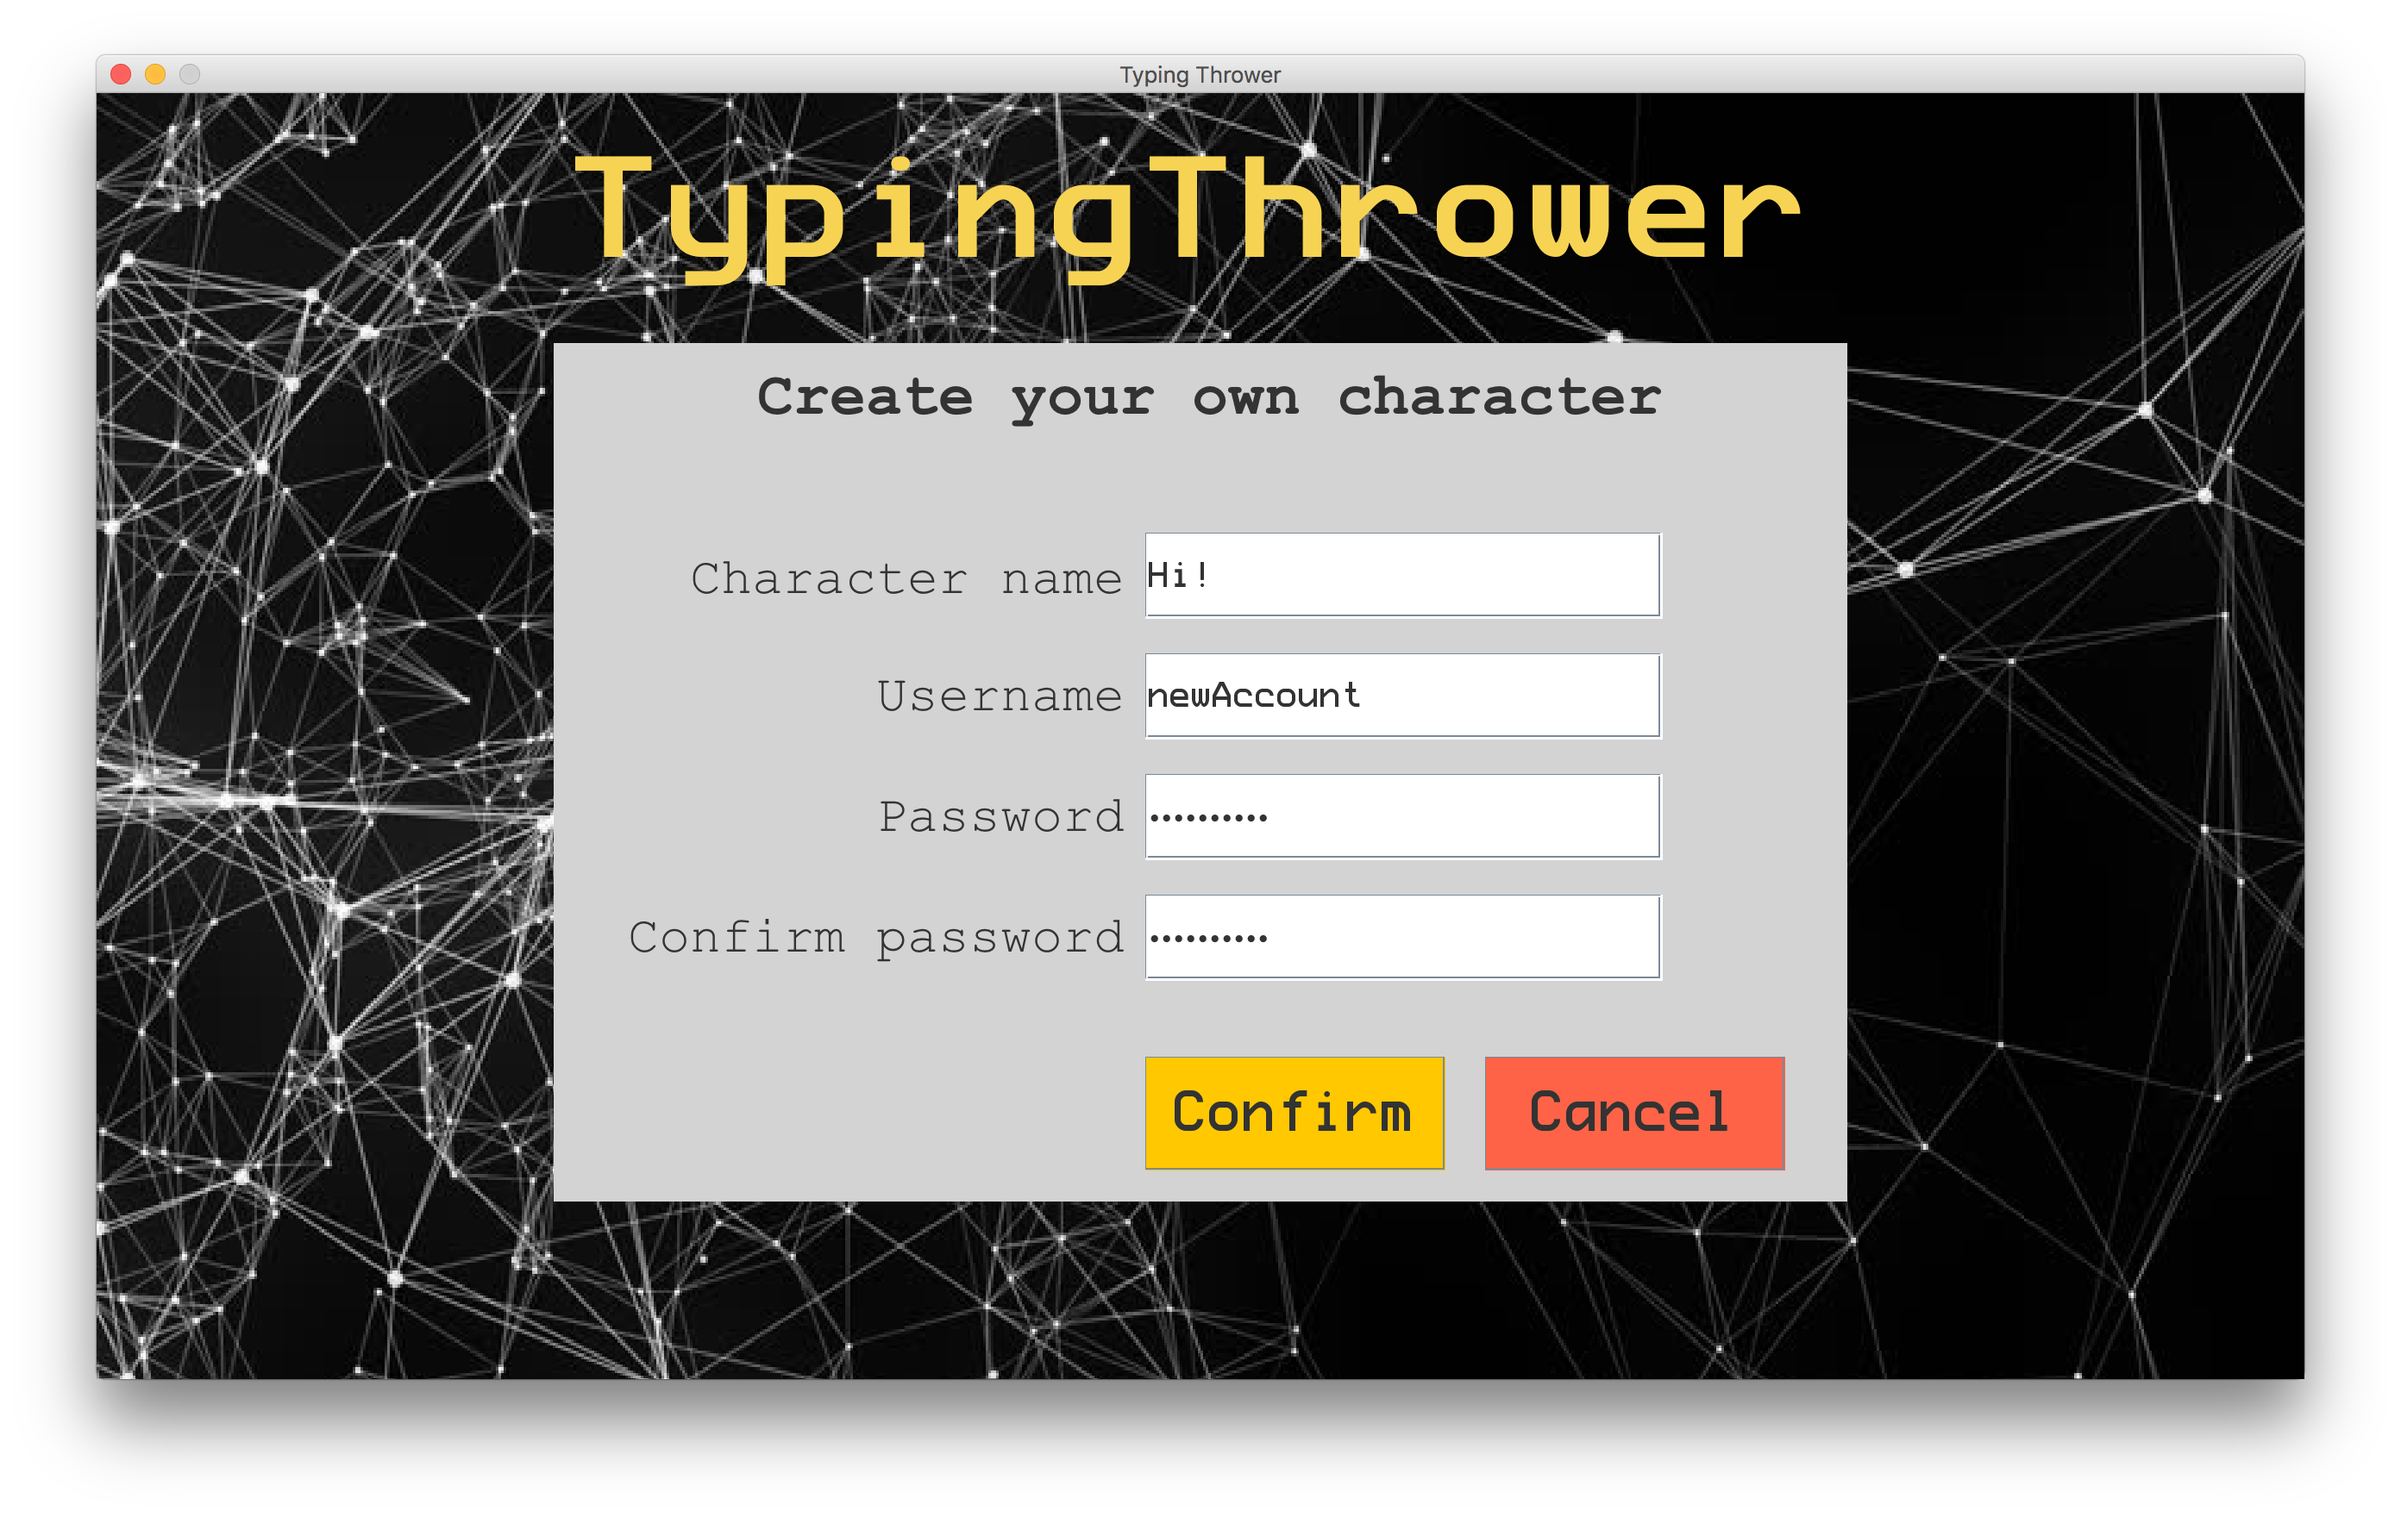
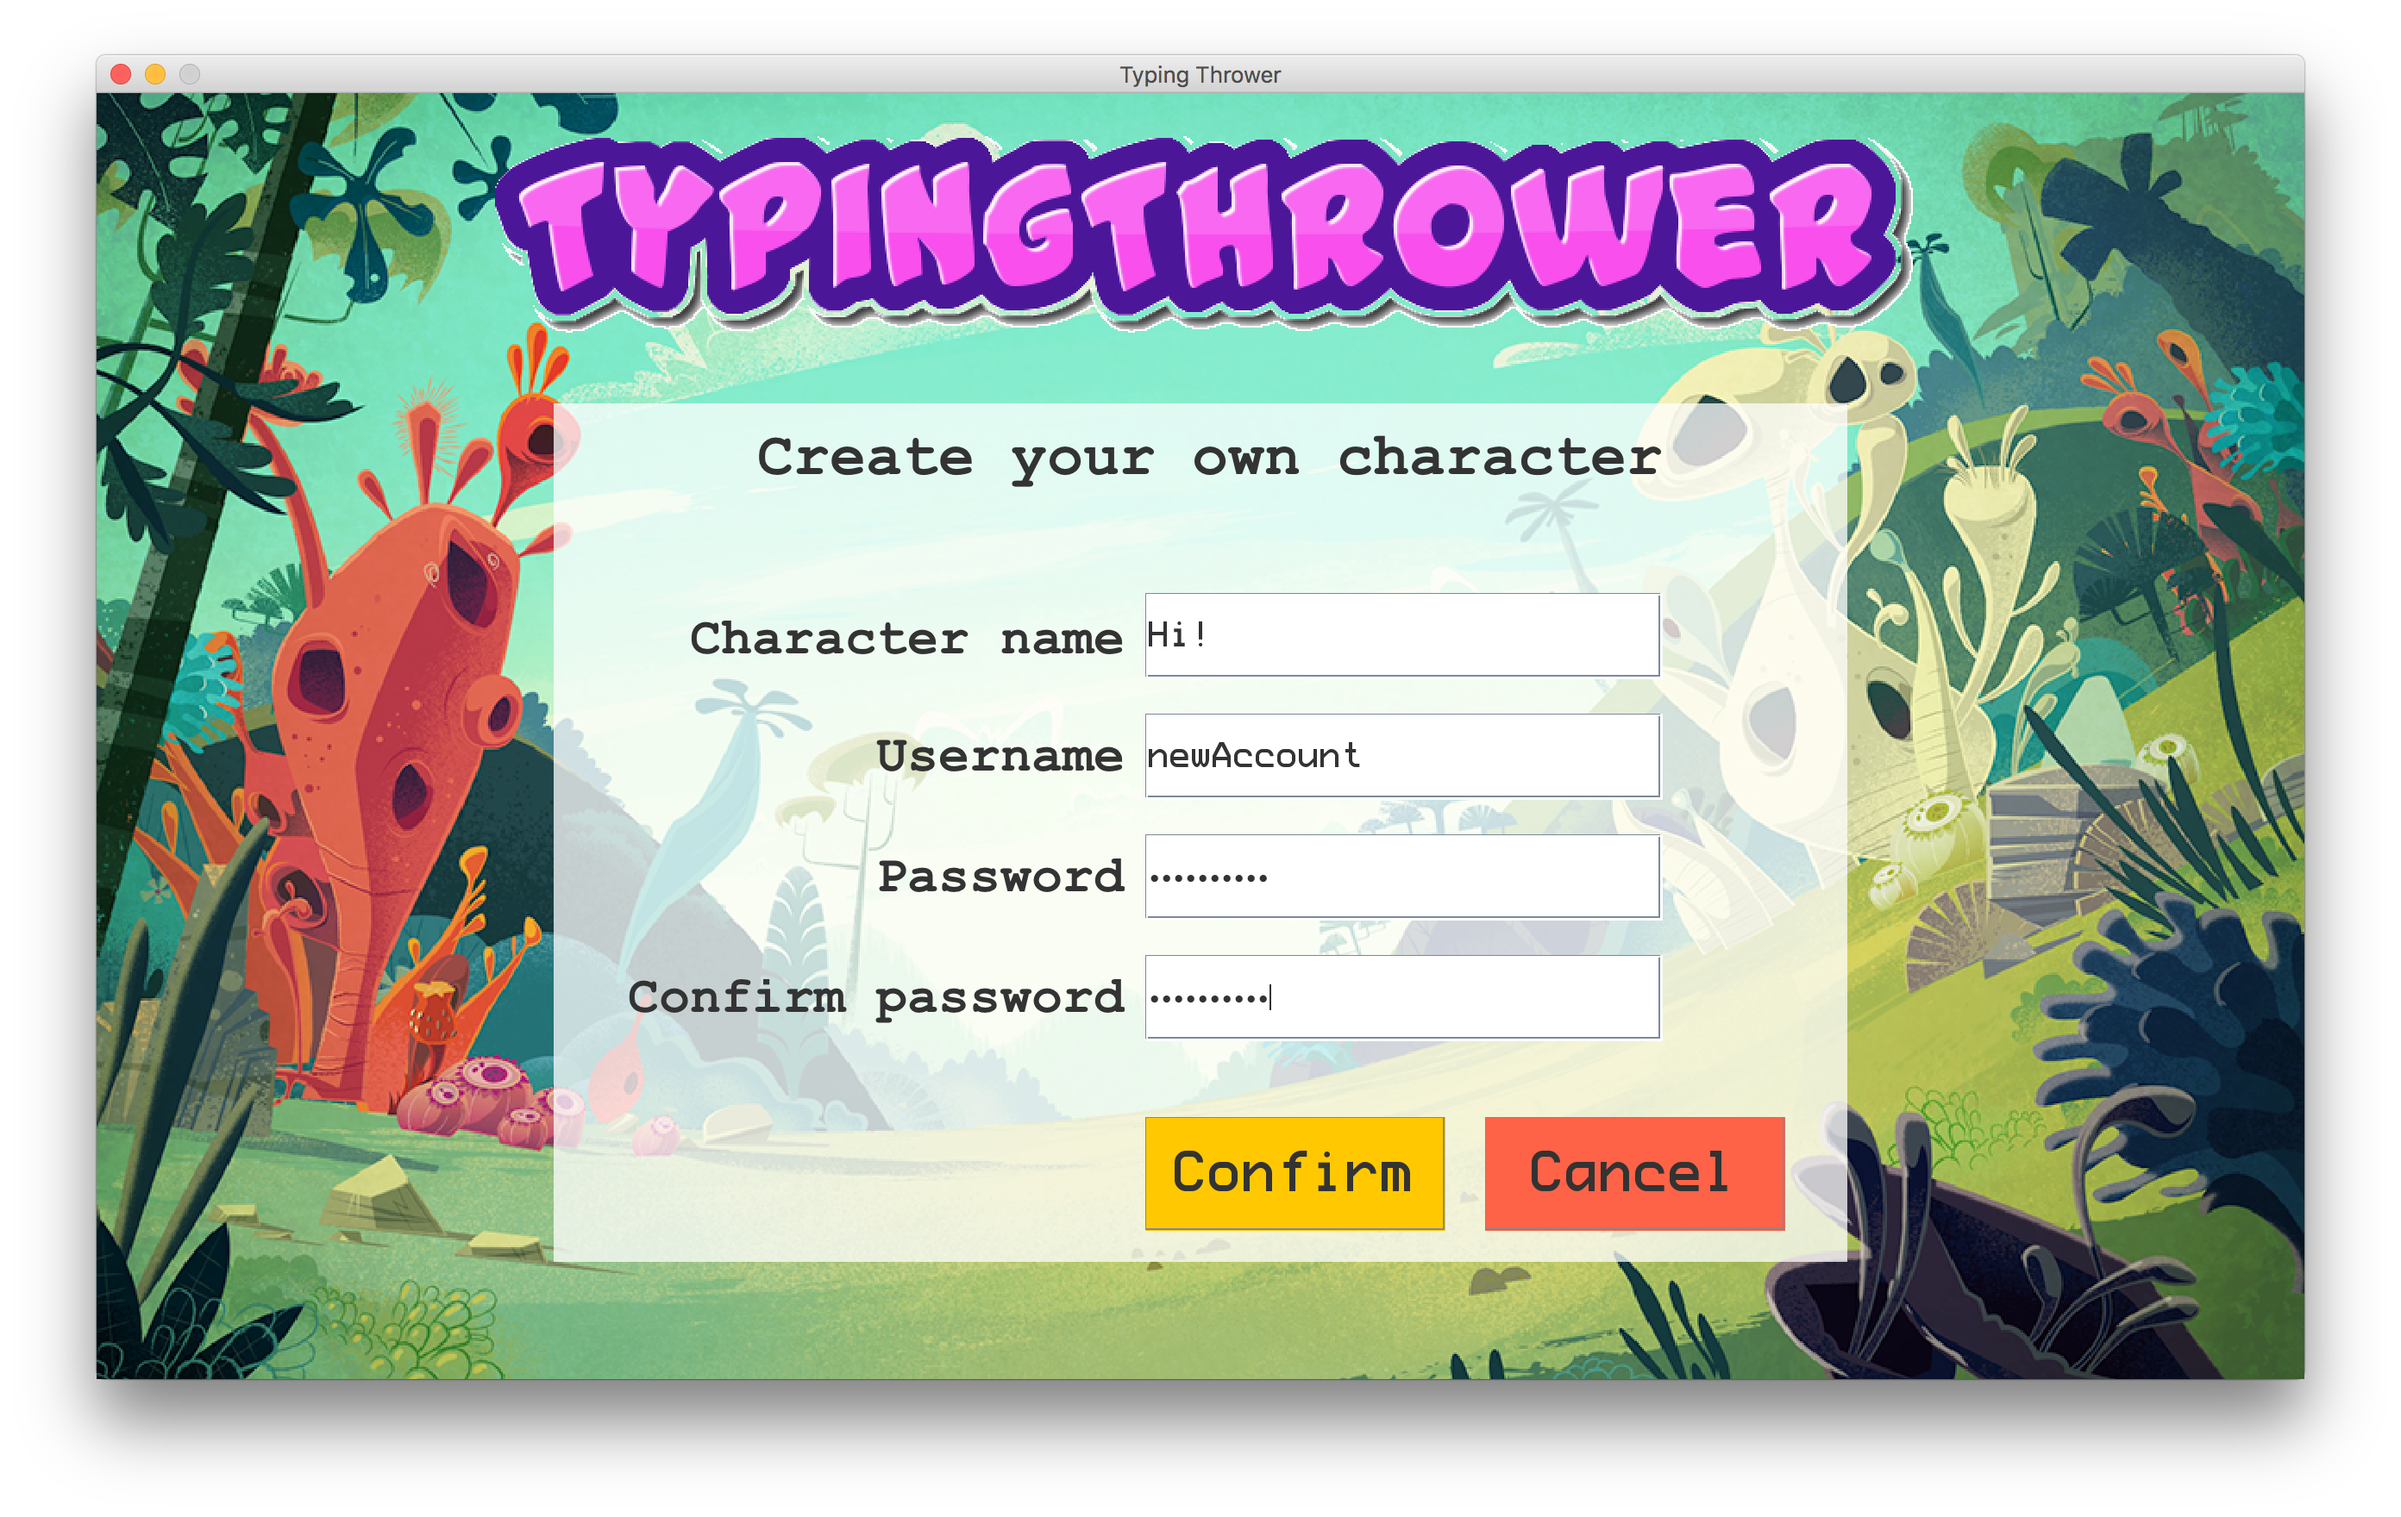
change bg ui and picture for markdown

diff --git a/src/gameui/SignUpUI.java b/src/gameui/SignUpUI.java
@@ -47,7 +47,7 @@ public class SignUpUI extends AbstractFont {
 			protected void paintComponent(Graphics g) {
 				super.paintComponent(g);
 				try {
-					BufferedImage img = ImageIO.read(this.getClass().getResourceAsStream("/res/LoginBackground.jpg"));
+					BufferedImage img = ImageIO.read(this.getClass().getResourceAsStream("/res/LoginBackground2.jpg"));
 					g.drawImage(img, 0, 0, 1280, 768, null);
 
 				} catch (IOException e) {
@@ -57,10 +57,14 @@ public class SignUpUI extends AbstractFont {
 		};
 		signUpPanel.setLayout(null);
 
+		JLabel lblGameName = new JLabel(new ImageIcon(this.getClass().getResource("/res/logo.png")));
+		lblGameName.setBounds(6, 22, 1268, 120);
+		signUpPanel.add(lblGameName);
+		
 		JPanel panel = new JPanel();
 		panel.setLayout(null);
-		panel.setBackground(new Color(211, 211, 211));
-		panel.setBounds(265, 145, 750, 498);
+		panel.setBackground(new Color(255, 255, 255, 190));
+		panel.setBounds(265, 180, 750, 498);
 
 		JLabel lblTitle = new JLabel("Create your own character");
 		lblTitle.setHorizontalAlignment(SwingConstants.CENTER);
@@ -68,18 +72,30 @@ public class SignUpUI extends AbstractFont {
 		lblTitle.setBounds(6, 6, 749, 50);
 		panel.add(lblTitle);
 
+		Font fontForlbl = new Font("Courier New", Font.BOLD, 30);
+		Font fontForfield = getFont("ProFont For Powerline.ttf").deriveFont(Font.PLAIN, 25);
+		
+		lblCharacter = new JLabel("Character name");
+		lblCharacter.setHorizontalAlignment(SwingConstants.RIGHT);
+		lblCharacter.setFont(fontForlbl);
+		lblCharacter.setBounds(56, 115, 275, 44);
+		panel.add(lblCharacter);
+
+		characterField = new JTextField();
+		characterField.setFont(fontForfield);
+		characterField.setColumns(10);
+		characterField.setBounds(343, 110, 300, 50);
+		characterField.addKeyListener(new EnterAndTypeLimitKeyAdapter(characterField, this));
+		panel.add(characterField);
+		
 		lblUsername = new JLabel("Username");
 		lblUsername.setHorizontalAlignment(SwingConstants.RIGHT);
-		lblUsername.setFont(new Font("Courier New", Font.PLAIN, 30));
+		lblUsername.setFont(fontForlbl);
 		lblUsername.setBounds(148, 183, 183, 44);
 		panel.add(lblUsername);
 
 		usernameField = new JTextField();
-		try {
-			usernameField.setFont(getFont("ProFont For Powerline.ttf").deriveFont(Font.PLAIN, 25));
-		} catch (Exception e1) {
-			e1.printStackTrace();
-		}
+		usernameField.setFont(fontForfield);
 		usernameField.setColumns(10);
 		usernameField.setBounds(343, 180, 300, 50);
 		usernameField.addKeyListener(new EnterAndTypeLimitKeyAdapter(usernameField, this));
@@ -87,7 +103,7 @@ public class SignUpUI extends AbstractFont {
 
 		lblPass = new JLabel("Password");
 		lblPass.setHorizontalAlignment(SwingConstants.RIGHT);
-		lblPass.setFont(new Font("Courier New", Font.PLAIN, 30));
+		lblPass.setFont(fontForlbl);
 		lblPass.setBounds(176, 247, 155, 57);
 		panel.add(lblPass);
 
@@ -98,7 +114,7 @@ public class SignUpUI extends AbstractFont {
 
 		lblConfirmPass = new JLabel("Confirm password");
 		lblConfirmPass.setHorizontalAlignment(SwingConstants.RIGHT);
-		lblConfirmPass.setFont(new Font("Courier New", Font.PLAIN, 30));
+		lblConfirmPass.setFont(fontForlbl);
 		lblConfirmPass.setBounds(31, 320, 300, 50);
 		panel.add(lblConfirmPass);
 
@@ -112,23 +128,6 @@ public class SignUpUI extends AbstractFont {
 		status.setFont(new Font("Courier New", Font.BOLD, 18));
 		status.setBounds(6, 75, 749, 28);
 		panel.add(status);
-
-		lblCharacter = new JLabel("Character name");
-		lblCharacter.setHorizontalAlignment(SwingConstants.RIGHT);
-		lblCharacter.setFont(new Font("Courier New", Font.PLAIN, 30));
-		lblCharacter.setBounds(56, 115, 275, 44);
-		panel.add(lblCharacter);
-
-		characterField = new JTextField();
-		try {
-			characterField.setFont(getFont("ProFont For Powerline.ttf").deriveFont(Font.PLAIN, 25));
-		} catch (Exception e1) {
-			e1.printStackTrace();
-		}
-		characterField.setColumns(10);
-		characterField.setBounds(343, 110, 300, 50);
-		characterField.addKeyListener(new EnterAndTypeLimitKeyAdapter(characterField, this));
-		panel.add(characterField);
 
 		signUpPanel.add(panel);
 
@@ -161,13 +160,6 @@ public class SignUpUI extends AbstractFont {
 			}
 		});
 		panel.add(btnCancel);
-
-		JLabel lblGameName = new JLabel("TypingThrower");
-		lblGameName.setHorizontalAlignment(SwingConstants.CENTER);
-		lblGameName.setForeground(new Color(247, 211, 84));
-		lblGameName.setFont(getFont("ProFont For Powerline.ttf").deriveFont(Font.BOLD, 100));
-		lblGameName.setBounds(6, 22, 1268, 96);
-		signUpPanel.add(lblGameName);
 	}
 
 	/**

diff --git a/src/gameui/GameUI.java b/src/gameui/GameUI.java
@@ -29,7 +29,7 @@ import connection.Controller;
 import connection.DatabaseConnect;
 import connection.UserTable;
 
-public class GameUI {
+public class GameUI extends AbstractFont{
 	private final int WIDTH = 1280;
 	private final int HEIGHT = 768;
 
@@ -207,7 +207,7 @@ public class GameUI {
 
 	public void countDown() {
 		JLabel number = new JLabel("3", SwingConstants.CENTER);
-		number.setFont(new Font("Algerian", Font.BOLD, 300));
+		number.setFont(getFont("28 Days Later.ttf").deriveFont(Font.BOLD, 300));
 		number.setSize(playing.getWidth(), playing.getHeight() / 2);
 		number.setLocation((word.getWidth() - number.getWidth()) / 2,
 				((playing.getHeight() - number.getHeight()) / 2));
@@ -226,9 +226,8 @@ public class GameUI {
 						timer.schedule(new TimerTask() {
 							@Override
 							public void run() {
-								number.setText("TYPE!");
-								number.setFont(new Font("Algerian", Font.BOLD,
-										220));
+								number.setText("TYPE");
+								number.setFont(getFont("28 Days Later.ttf").deriveFont(Font.BOLD, 230));
 								timer.schedule(new TimerTask() {
 									@Override
 									public void run() {

diff --git a/src/gameui/WaitingUI.java b/src/gameui/WaitingUI.java
@@ -18,7 +18,7 @@ import connection.Controller;
 
 import javax.swing.JButton;
 
-public class WaitingUI {
+public class WaitingUI extends AbstractFont{
 
 	private JTextArea message;
 	private JPanel panel;
@@ -57,7 +57,7 @@ public class WaitingUI {
 		panel.setLayout(null);
 		message = new JTextArea(
 				"Game has been created\nWaiting for other player...");
-		message.setFont(new Font("Berlin Sans FB Demi", Font.BOLD, 90));
+		message.setFont(getFont("Berlin Sans FB Bold.ttf").deriveFont(Font.BOLD, 90));
 		message.setLocation(50, panel.getHeight() / 4);
 		message.setSize(panel.getWidth(),
 				(int) (message.getFont().getSize() * 1.25 * 2));

diff --git a/src/gameui/LoginUI.java b/src/gameui/LoginUI.java
@@ -88,7 +88,7 @@ public class LoginUI extends AbstractFont {
 		loginPanel.add(label);
 
 		panel = new JPanel();
-		panel.setBackground(new Color(211, 211, 211, 190));
+		panel.setBackground(new Color(255, 255, 255, 190));
 		panel.setBounds(265, 180, 750, 498);
 		panel.setLayout(null);
 		loginPanel.add(panel);
